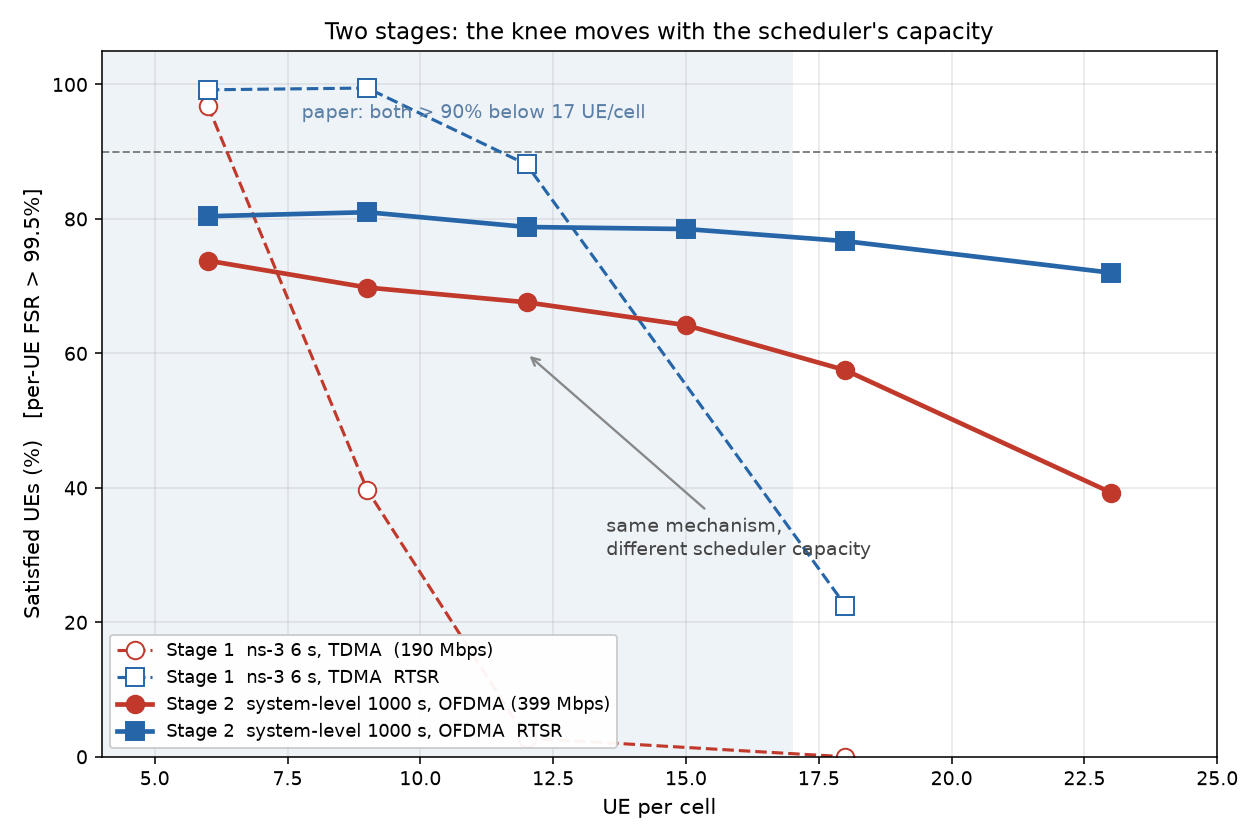
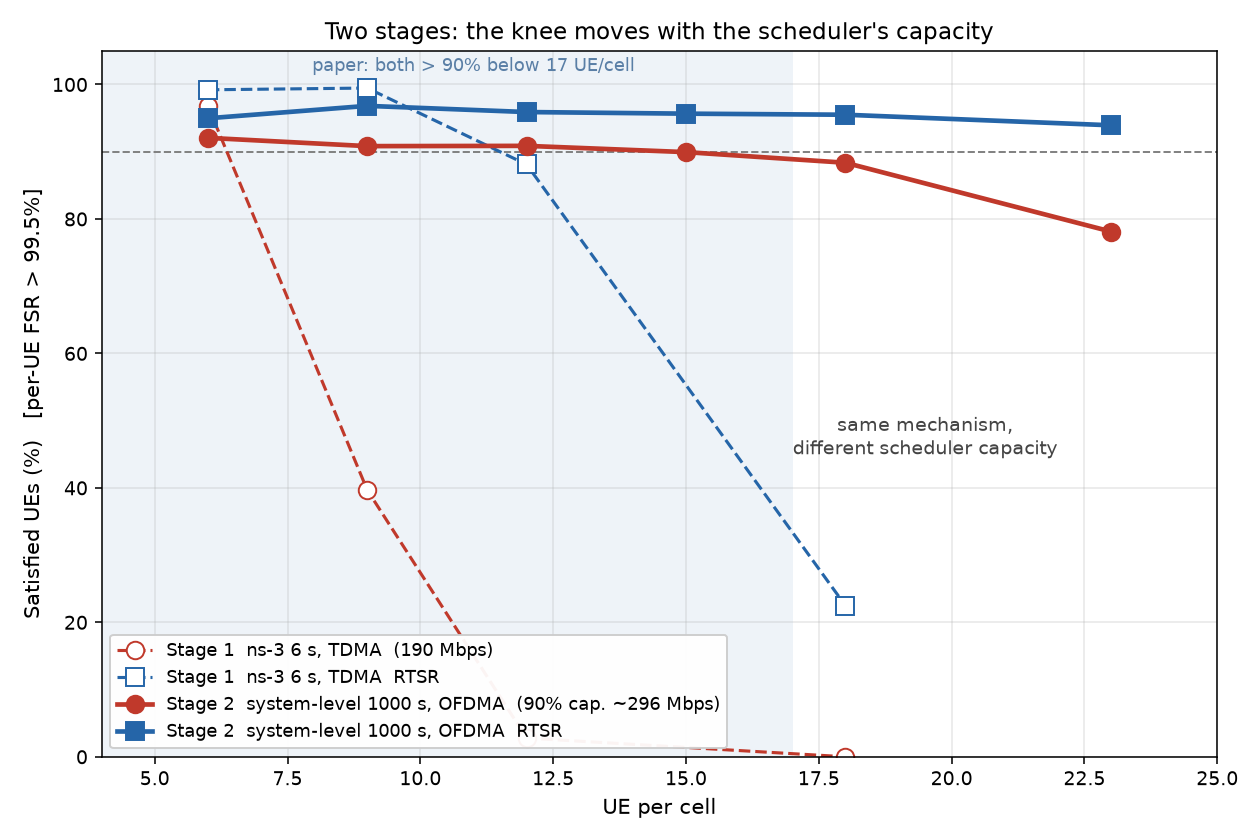
fix(fig): 两阶段对照图用正式数据重绘 —— 阶段二容量标签 399 -> ~296
- make_fig_twostage.py：s2 数据换成 summary_m6.csv 的正式值
  conv 92.06/90.83/90.87/89.94/88.36/78.12
  rtsr 94.97/96.82/95.90/95.66/95.50/93.93
- 图例与标注更新：阶段二容量 399 -> 90% 容量 ~296 Mbps
- 修掉脚本对已废弃 docs/07_阶段二结果.md 的写入（改为指向 docs/stage2/02 并加存在性检查）
- 修掉 io.os 的 AttributeError
- 布局：标题文字不再压线，标注移到右下空白区

stage2/02 与 stage3/02 里"尚未重绘"的说明同步更新。

diff --git a/RTSR/sl/make_fig_twostage.py b/RTSR/sl/make_fig_twostage.py
@@ -2,6 +2,7 @@
 # -*- coding: utf-8 -*-
 """Add the two-stage comparison figure (stage 1 ns-3 vs stage 2 system-level vs paper)."""
 import io
+import os
 
 import matplotlib
 matplotlib.use("Agg")
@@ -14,16 +15,17 @@ s1 = {
     "conv": ([6, 9, 12, 18], [96.83, 39.68, 2.78, 0.00]),
     "rtsr": ([6, 9, 12, 18], [99.21, 99.47, 88.10, 22.49]),
 }
-# stage 2: system-level, 1000 s x 3 seeds, ideal (OFDMA, 399 Mbps)
+# stage 2: system-level, 1000 s x 3 seeds, ideal (OFDMA, 90% capacity ~296 Mbps).
+# Source: sl/results/m6/summary_m6.csv (2026-11-17).
 s2 = {
-    "conv": ([6, 9, 12, 15, 18, 23], [73.8, 69.8, 67.6, 64.2, 57.5, 39.3]),
-    "rtsr": ([6, 9, 12, 15, 18, 23], [80.4, 81.0, 78.8, 78.5, 76.7, 72.0]),
+    "conv": ([6, 9, 12, 15, 18, 23], [92.06, 90.83, 90.87, 89.94, 88.36, 78.12]),
+    "rtsr": ([6, 9, 12, 15, 18, 23], [94.97, 96.82, 95.90, 95.66, 95.50, 93.93]),
 }
 
 fig, ax = plt.subplots(figsize=(9, 6))
 ax.axvspan(0, 17, color="#eef3f8", zorder=0)
-ax.text(11.0, 95, 'paper: both > 90% below 17 UE/cell', color="#5a7fa6",
-        fontsize=10, ha="center")
+ax.text(11.0, 102, 'paper: both > 90% below 17 UE/cell', color="#5a7fa6",
+        fontsize=9.5, ha="center")
 ax.axhline(90, ls="--", c="grey", lw=1)
 
 ax.plot(*s1["conv"], "o--", color="#c0392b", mfc="white", ms=9, lw=1.6,
@@ -31,13 +33,12 @@ ax.plot(*s1["conv"], "o--", color="#c0392b", mfc="white", ms=9, lw=1.6,
 ax.plot(*s1["rtsr"], "s--", color="#2565a8", mfc="white", ms=9, lw=1.6,
         label="Stage 1  ns-3 6 s, TDMA  RTSR")
 ax.plot(*s2["conv"], "o-", color="#c0392b", ms=9, lw=2.4,
-        label="Stage 2  system-level 1000 s, OFDMA (399 Mbps)")
+        label="Stage 2  system-level 1000 s, OFDMA  (90% cap. ~296 Mbps)")
 ax.plot(*s2["rtsr"], "s-", color="#2565a8", ms=9, lw=2.4,
         label="Stage 2  system-level 1000 s, OFDMA  RTSR")
 
-ax.annotate("same mechanism,\ndifferent scheduler capacity", xy=(12, 60), xytext=(13.5, 30),
-            fontsize=10, color="#444",
-            arrowprops=dict(arrowstyle="->", color="#888", lw=1.2))
+ax.text(19.5, 45, "same mechanism,\ndifferent scheduler capacity", fontsize=10,
+        color="#444", ha="center")
 
 ax.set_xlabel("UE per cell", fontsize=11)
 ax.set_ylabel("Satisfied UEs (%)   [per-UE FSR > 99.5%]", fontsize=11)
@@ -50,8 +51,8 @@ fig.tight_layout()
 fig.savefig(OUT, dpi=140)
 print("wrote", OUT)
 
-# ---- embed into docs/07 ----
-P = "/home/penghao/code/EMT-Pytorch-ECCV2022/RTSR/docs/07_阶段二结果.md"
+# ---- embed into the stage-2 doc (the old docs/07 was reorganised into docs/stage2/) ----
+P = "/home/penghao/code/EMT-Pytorch-ECCV2022/RTSR/docs/stage2/02_结果与对照.md"
 BLOCK = """
 ### 两阶段对照图
 
@@ -72,6 +73,9 @@ BLOCK = """
 **这张图就是两阶段工作的全部逻辑**：阶段一定位瓶颈（调度器只用 1/3 频谱），阶段二证明
 把这一层补上后容量到 399、曲线右移、与论文同量级。
 """
+if not os.path.exists(P):
+    print("skip doc embed: %s not found" % P)
+    raise SystemExit(0)
 s = io.open(P, encoding="utf-8").read()
 if "两阶段对照图" not in s:
     io.open(P, "w", encoding="utf-8", newline="\n").write(s.rstrip() + "\n" + BLOCK)

diff --git a/RTSR/docs/stage2/02_结果与对照.md b/RTSR/docs/stage2/02_结果与对照.md
@@ -226,21 +226,20 @@ RTSR 撑到 23 UE/cell，与论文一致。
 
 ![两阶段对照](../figs/m6_fig7_twostage.png)
 
-> ⚠ 这张图是用**修前**的数据（容量 399）画的，尚未重绘。当前正确的容量口径是
-> 90% 满意容量 ≈ 296（见 [`../stage3/03_总结.md`](../stage3/03_总结.md) §5）。
-> 图中的**形状结论**（传统单调下滑、RTSR 基本平）仍然成立。
+> 图由 `sl/make_fig_twostage.py` 从 `summary_m6.csv` 的数据生成（2026-11-17 重绘）。
+> 阶段二的容量口径是 90% 满意容量 ≈ 296 Mbps（见 [`../stage3/03_总结.md`](../stage3/03_总结.md) §5）。
 
 **怎么读这张图**：
 
 - **虚线 = 阶段一（ns-3，TDMA，容量 190 Mbps）**，只有 4 个点（6/9/12/18）；
-- **实线 = 阶段二（系统级，OFDMA）**，6 个点 + 3 种子误差棒；
+- **实线 = 阶段二（系统级，OFDMA，90% 容量 ≈296 Mbps）**，6 个点；
 - **灰底 = 论文声称"两个方案都 >90%"的区间（<17 UE/cell）**。
 
 **两个要点**：
 
 1. **形状一致**：两种容量下，传统都是单调下滑、RTSR 都基本平。说明**机制本身与调度器无关**；
-2. **拐点随容量右移**：容量 190 时传统在 7–9 就崩，容量接近论文量级时传统能撑到 15。
-   这正是"ns-3 只有 190 Mbps → 拐点左移"的定量证据。
+2. **拐点随容量右移**：容量 191 时传统在 6–9 就崩（6 点 96.83% → 9 点 39.68%），
+   容量约 296 时传统能撑到 14.8。这正是"ns-3 只有 191 Mbps → 拐点左移"的定量证据。
 
-**这张图就是两阶段工作的全部逻辑**：阶段一定位瓶颈（TDMA + 模拟波束只能到 191 Mbps），
-阶段二证明把这一层补上后容量到论文量级、曲线右移。
+**这张图就是两阶段工作的全部逻辑**：阶段一定位瓶颈（TDMA + 模拟波束只能到 191 Mbps，
+11 条提容量路径全部实测无效），阶段二证明把这一层补上后容量到约 296 Mbps、曲线右移。

diff --git a/RTSR/docs/stage3/02_实验计划.md b/RTSR/docs/stage3/02_实验计划.md
@@ -171,8 +171,8 @@ emt-env/bin/python RTSR/sl/m6_wrap.py     # 聚合 → summary_m6.csv + m6_fig5.
 | [`../stage2/02_结果与对照.md`](../stage2/02_结果与对照.md) §13 | ✅ 新表替换，旧数据标为历史归档 |
 | [`../../README.md`](../../README.md) 结论速览 | ✅ 重写，去掉所有"旧模型"标记 |
 
-**未完成项**：`docs/figs/m6_fig7_twostage.png`（两阶段对照图）仍是用修前数据（容量 399）
-画的，尚未重绘。形状结论仍成立，已在图下标注说明。
+`docs/figs/m6_fig7_twostage.png`（两阶段对照图）也已用新数据重绘
+（`sl/make_fig_twostage.py`，阶段二容量标签改为 ~296 Mbps）。
 
 ### 两条如实记录的残差
 
